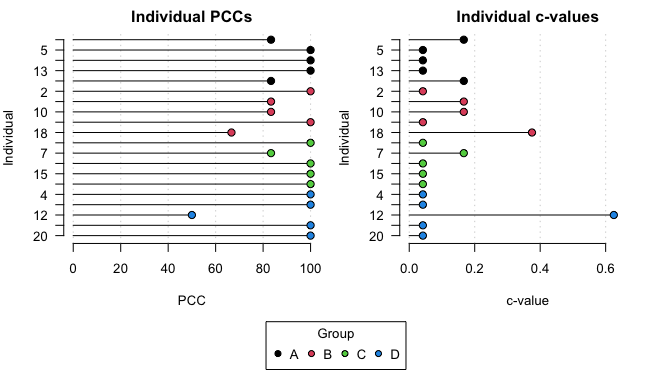
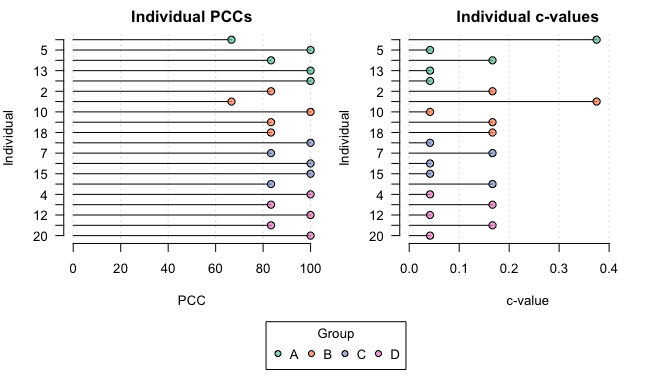
Updated readme

diff --git a/README.md b/README.md
@@ -110,26 +110,26 @@ dat <- data.frame(t1 = rnorm(20, mean = 12, sd = 2),
                   
 round(dat, 2)
 #>       t1    t2    t3    t4
-#> 1  11.04 13.78 15.93 13.12
-#> 2  12.03 12.04 17.83 14.08
-#> 3  10.03 13.32 21.68 17.34
-#> 4  12.06 14.47 22.88 20.01
-#> 5  11.37 16.38 22.98 18.17
-#> 6   7.19 16.88 22.42 15.44
-#> 7  11.80 11.94 18.77 20.44
-#> 8   8.87 16.93 19.14 18.49
-#> 9  13.31 15.42 22.00 16.03
-#> 10 14.21 15.56 18.84 14.62
-#> 11 10.69 12.78 19.66 14.94
-#> 12 12.68 20.89 18.54 20.24
-#> 13  9.47 15.98 17.26 17.13
-#> 14 12.23 12.28 20.97 18.91
-#> 15 12.68 14.02 20.16 16.83
-#> 16  6.93 11.13 20.00 17.67
-#> 17 12.15 14.44 16.17 18.34
-#> 18 16.26 11.37 19.93 15.72
-#> 19 10.30 13.57 21.65 18.03
-#> 20 10.90 15.63 22.88 19.20
+#> 1  13.16 12.92 18.51 19.61
+#> 2  14.87 14.71 20.77 18.15
+#> 3  11.21 14.56 20.35 16.18
+#> 4  12.98 14.52 19.97 17.61
+#> 5  11.09 14.45 20.69 19.10
+#> 6  14.62 16.81 21.17 13.41
+#> 7  12.30 17.02 21.72 15.32
+#> 8  10.05 14.41 16.70 19.68
+#> 9  11.40 17.02 18.77 14.77
+#> 10 12.34 12.63 22.05 18.40
+#> 11  9.91 13.48 21.05 16.80
+#> 12 13.95 14.05 20.14 18.19
+#> 13 10.55 14.11 19.52 15.39
+#> 14  9.43 15.28 20.44 21.30
+#> 15 12.91 14.31 17.09 14.89
+#> 16 11.47 16.75 17.11 14.86
+#> 17  9.25 13.94 20.29 14.28
+#> 18 13.01 16.89 20.79 13.17
+#> 19  9.23 14.75 18.72 12.70
+#> 20 12.72 13.81 23.88 15.96
 ```
 
 An ordinal pattern analysis model to consider how the hypothesis `h`
@@ -146,30 +146,30 @@ summary(opamod)
 #> Ordinal Pattern Analysis of 4 observations for 20 individuals in 1 group 
 #> 
 #> Between subjects results:
-#>          PCC cval
-#> pooled 91.67 0.12
+#>        PCC cval
+#> pooled  90 0.12
 #> 
 #> Within subjects results:
 #>       PCC cval
-#> 1   83.33 0.17
-#> 2  100.00 0.04
+#> 1   66.67 0.38
+#> 2   83.33 0.17
 #> 3  100.00 0.04
 #> 4  100.00 0.04
 #> 5  100.00 0.04
-#> 6   83.33 0.17
+#> 6   66.67 0.38
 #> 7   83.33 0.17
-#> 8  100.00 0.04
-#> 9  100.00 0.04
-#> 10  83.33 0.17
+#> 8   83.33 0.17
+#> 9   83.33 0.17
+#> 10 100.00 0.04
 #> 11 100.00 0.04
-#> 12  50.00 0.62
+#> 12 100.00 0.04
 #> 13 100.00 0.04
-#> 14 100.00 0.04
+#> 14  83.33 0.17
 #> 15 100.00 0.04
-#> 16 100.00 0.04
-#> 17  83.33 0.17
-#> 18  66.67 0.38
-#> 19 100.00 0.04
+#> 16  83.33 0.17
+#> 17 100.00 0.04
+#> 18  83.33 0.17
+#> 19  83.33 0.17
 #> 20 100.00 0.04
 #> 
 #> PCCs were calculated for pairwise ordinal relationships using a difference threshold of 0.
@@ -194,17 +194,17 @@ produced by a call to `opa()`:
 condition_comparisons <- compare_conditions(opamod)
 
 condition_comparisons$pccs
-#>     1  2  3 4
-#> 1   -  -  - -
-#> 2  95  -  - -
-#> 3 100 95  - -
-#> 4  95 80 85 -
+#>     1   2  3 4
+#> 1   -   -  - -
+#> 2  90   -  - -
+#> 3 100 100  - -
+#> 4  95  70 85 -
 condition_comparisons$cvals
-#>       1     2     3 4
-#> 1     -     -     - -
-#> 2 0.525     -     - -
-#> 3   0.5 0.525     - -
-#> 4 0.525   0.6 0.575 -
+#>       1    2     3 4
+#> 1     -    -     - -
+#> 2  0.55    -     - -
+#> 3   0.5  0.5     - -
+#> 4 0.525 0.65 0.575 -
 ```
 
 ### Multiple groups
@@ -228,32 +228,32 @@ summary(opamod2)
 #> 
 #> Between subjects results:
 #>     PCC cval
-#> A 93.33 0.09
-#> B 86.67 0.16
-#> C 96.67 0.07
-#> D 90.00 0.16
+#> A 90.00 0.13
+#> B 83.33 0.18
+#> C 93.33 0.09
+#> D 93.33 0.09
 #> 
 #> Within subjects results:
 #>   Individual    PCC cval
-#> A          1  83.33 0.17
+#> A          1  66.67 0.38
 #> A          5 100.00 0.04
-#> A          9 100.00 0.04
+#> A          9  83.33 0.17
 #> A         13 100.00 0.04
-#> A         17  83.33 0.17
-#> B          2 100.00 0.04
-#> B          6  83.33 0.17
-#> B         10  83.33 0.17
-#> B         14 100.00 0.04
-#> B         18  66.67 0.38
+#> A         17 100.00 0.04
+#> B          2  83.33 0.17
+#> B          6  66.67 0.38
+#> B         10 100.00 0.04
+#> B         14  83.33 0.17
+#> B         18  83.33 0.17
 #> C          3 100.00 0.04
 #> C          7  83.33 0.17
 #> C         11 100.00 0.04
 #> C         15 100.00 0.04
-#> C         19 100.00 0.04
+#> C         19  83.33 0.17
 #> D          4 100.00 0.04
-#> D          8 100.00 0.04
-#> D         12  50.00 0.62
-#> D         16 100.00 0.04
+#> D          8  83.33 0.17
+#> D         12 100.00 0.04
+#> D         16  83.33 0.17
 #> D         20 100.00 0.04
 #> 
 #> PCCs were calculated for pairwise ordinal relationships using a difference threshold of 0.
